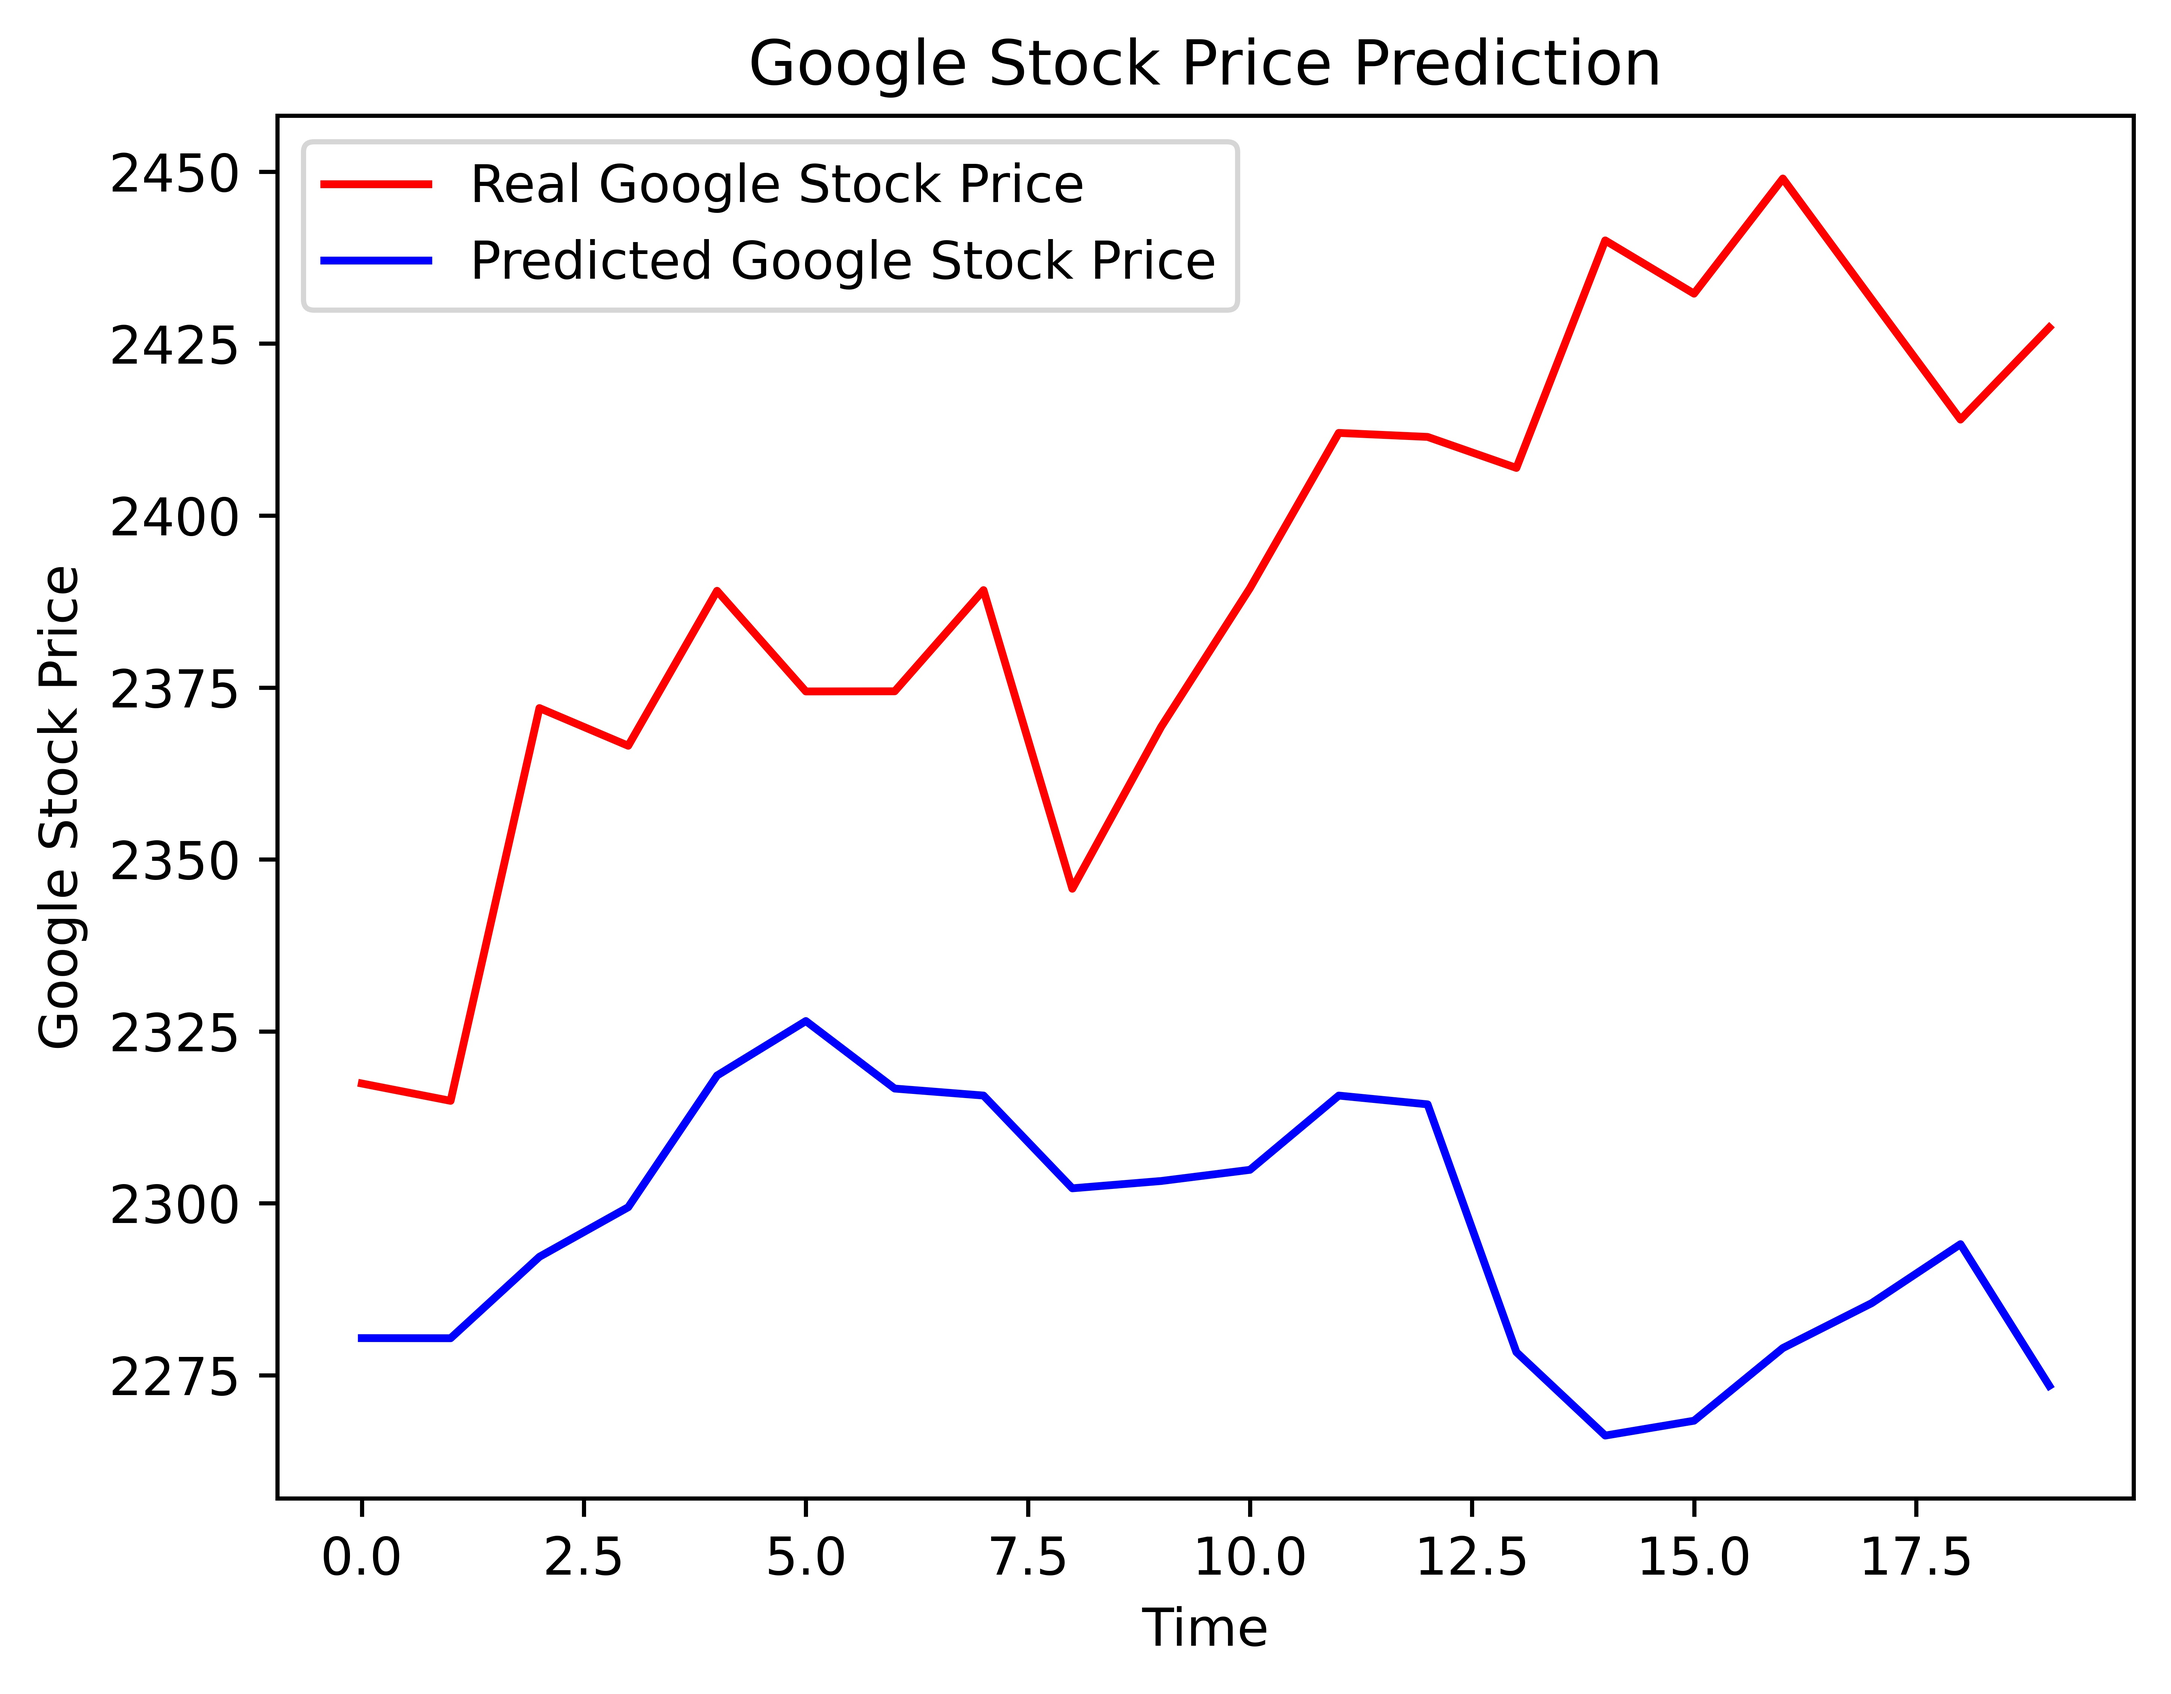
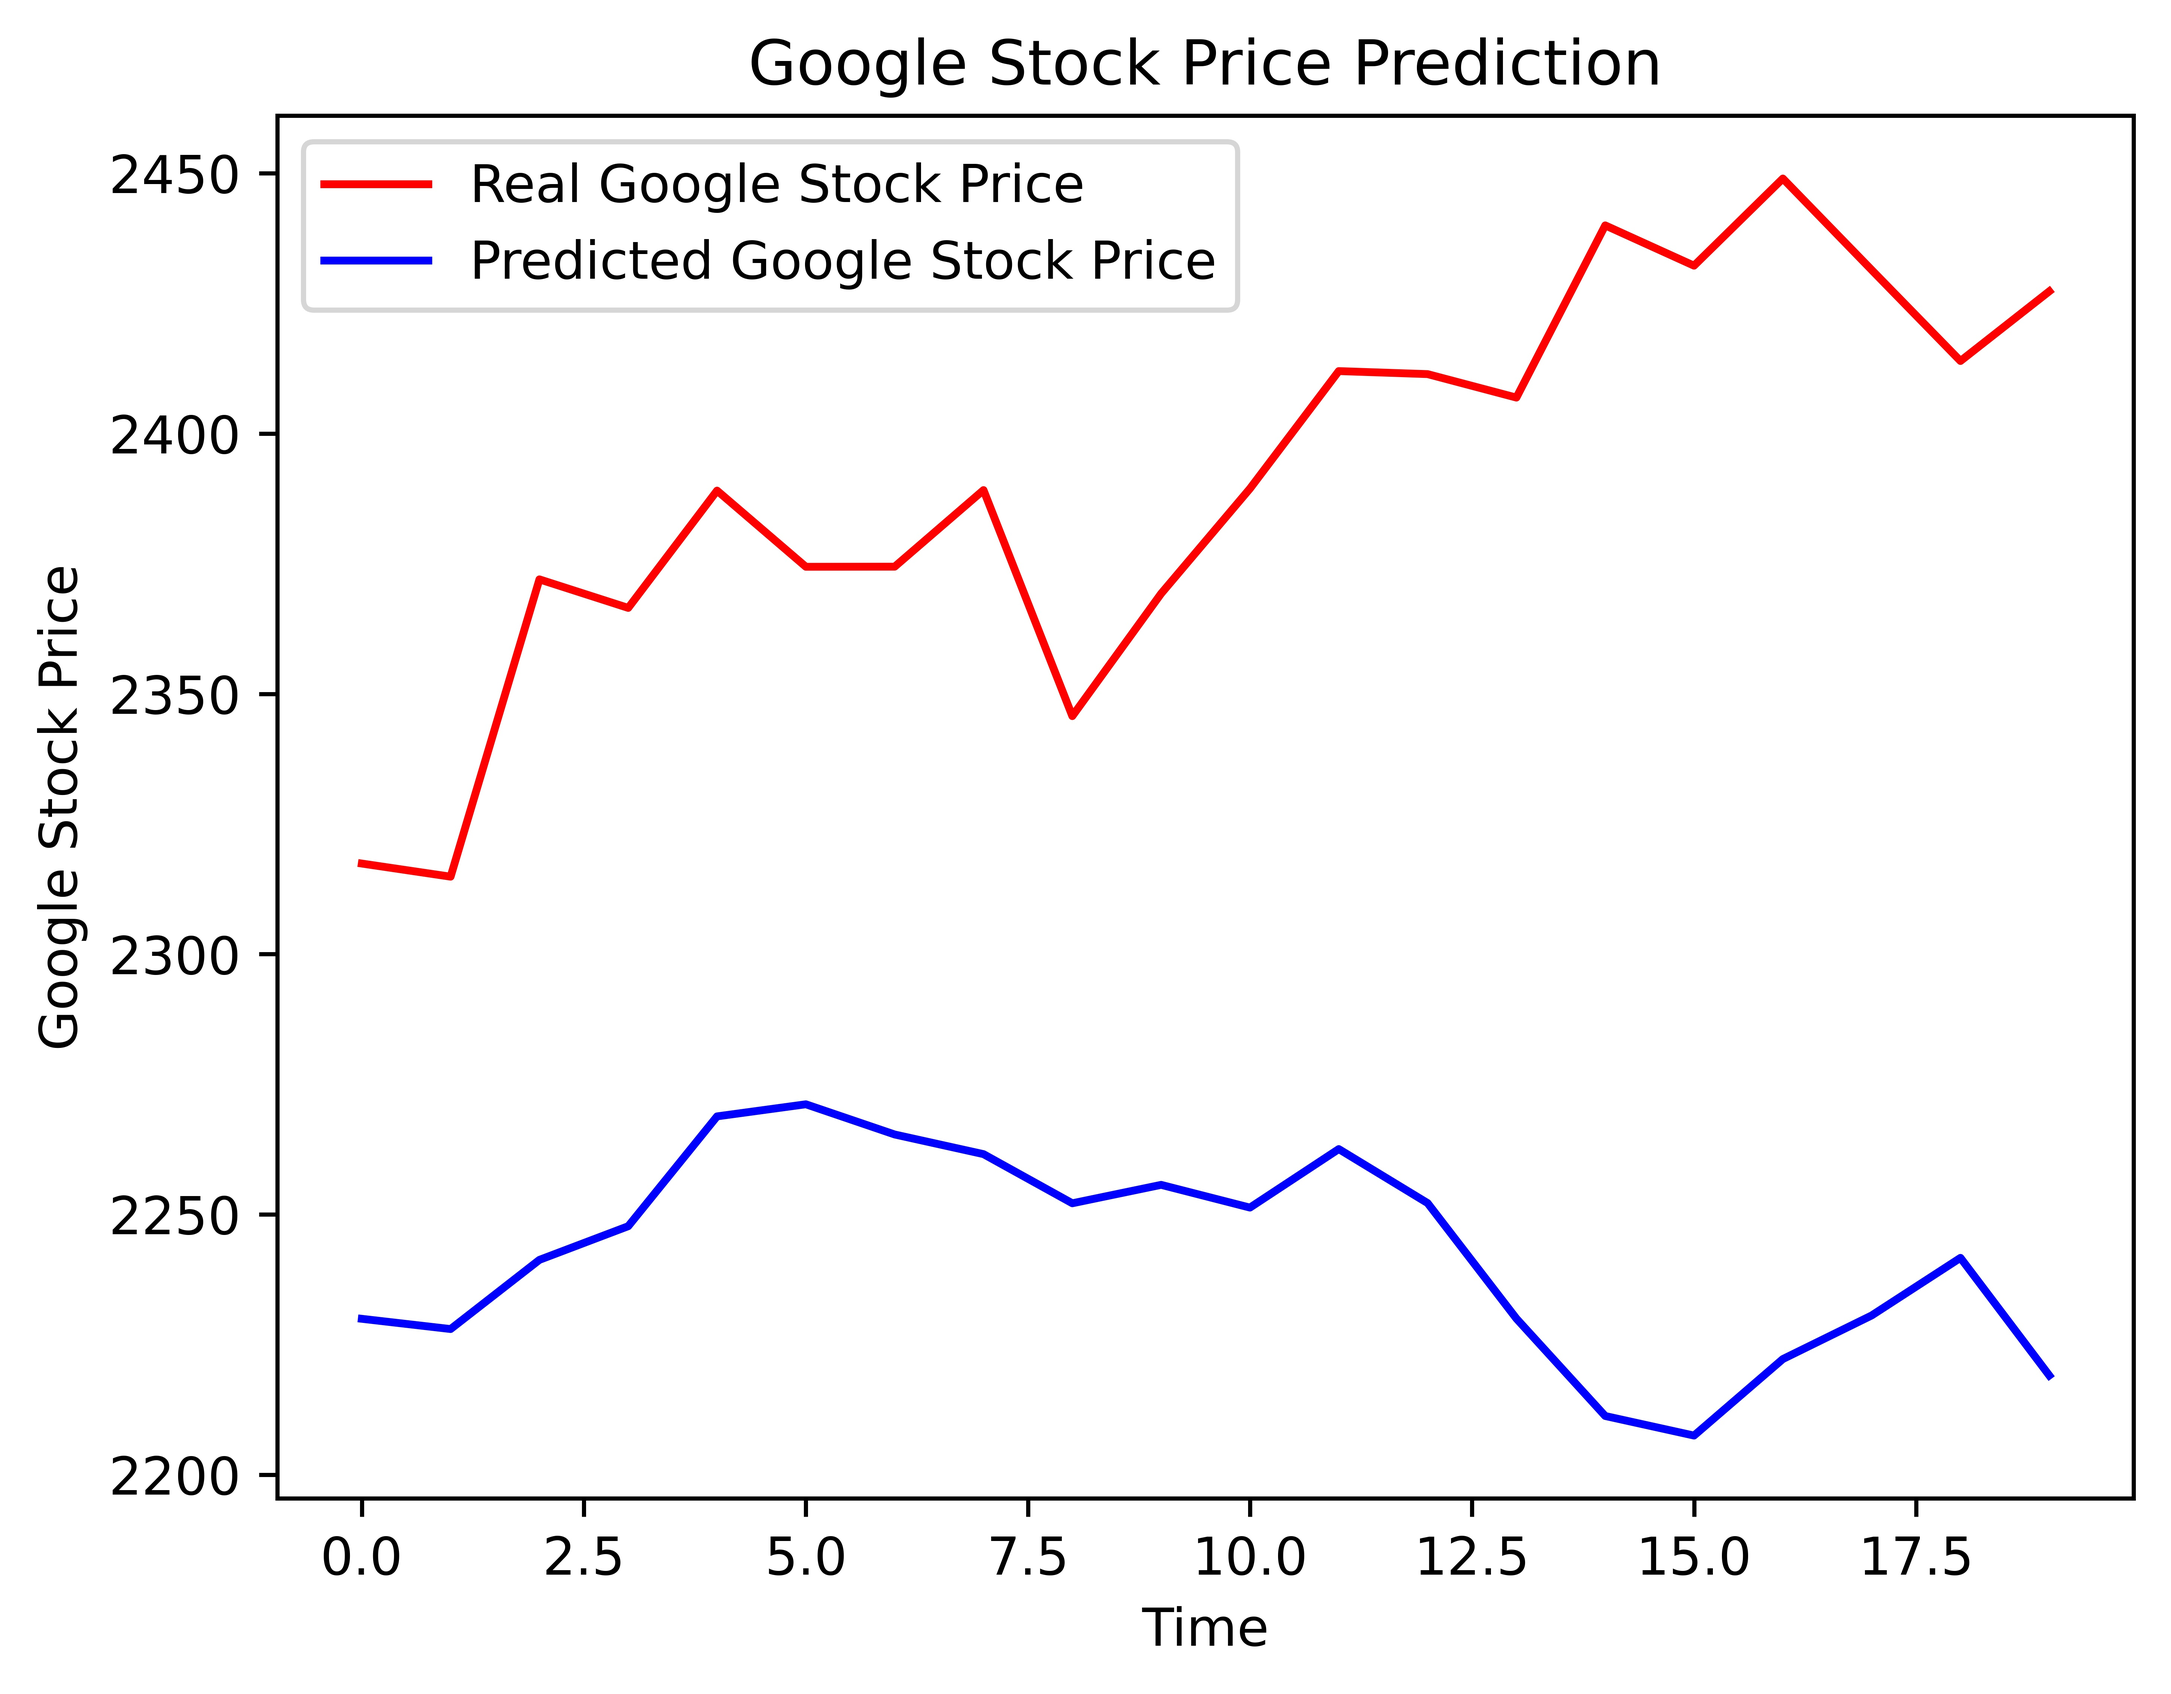
Parameter(time stamp - 120, added another layer) tuning and loss graph added

diff --git a/rnn_new.py b/rnn_new.py
@@ -15,8 +15,8 @@ training_set_scaled = sc.fit_transform(training_set)
 #Creating a data structure with 60 timesteps and 1 output
 X_train = []
 y_train = []
-for i in range(60,4218):
-    X_train.append(training_set_scaled[i-60:i, 0])
+for i in range(120,4218):
+    X_train.append(training_set_scaled[i-120:i, 0])
     y_train.append(training_set_scaled[i, 0])
 
 X_train, y_train = np.array(X_train), np.array(y_train)
@@ -38,7 +38,7 @@ regressor = Sequential()
 regressor.add(LSTM(units = 100, return_sequences= True, input_shape = (X_train.shape[1],1)))
 regressor.add(Dropout(0.2))
 
-#Adding 3 more layers
+#Adding more layers
 #2
 regressor.add(LSTM(units = 100, return_sequences= True))
 regressor.add(Dropout(0.2))
@@ -49,6 +49,10 @@ regressor.add(Dropout(0.2))
 regressor.add(LSTM(units = 100, return_sequences= True))
 regressor.add(Dropout(0.2))
 #5
+regressor.add(LSTM(units = 100, return_sequences= True))
+regressor.add(Dropout(0.2))
+
+#6
 regressor.add(LSTM(units = 100, return_sequences= True))
 regressor.add(Dropout(0.2))
 
@@ -63,8 +67,17 @@ regressor.add(Dense(units = 1))
 regressor.compile(optimizer='adam', loss='mean_squared_error')
 
 #Fitting the RNN model to the training set
-regressor.fit(X_train, y_train, epochs=500, batch_size=32)
+history = regressor.fit(X_train, y_train, validation_split=0.2,epochs=500, batch_size=64)
 
+print(history.history.keys())
+
+plt.plot(history.history['loss'], color='red', label='Loss')
+plt.title('Training Loss')
+plt.xlabel('Time')
+plt.ylabel('Loss')
+plt.legend()
+plt.savefig('Loss.jpg',bbox_inches='tight',dpi=1000)
+plt.show()
 
 #Reading test dataset
 #dataset_test = pd.read_csv('Google_Stock_Price_Test.csv')
@@ -72,12 +85,12 @@ real_stock_price = dataset.iloc[-20:,1:2].values
 
 #Predicting stock price
 #dataset_local = pd.concat((dataset_train['Open'], dataset_test['Open']), axis = 0)
-inputs = dataset.iloc[len(training_set)-80:,1:2].values
+inputs = dataset.iloc[len(training_set)-140:,1:2].values
 inputs = inputs.reshape(-1,1)
 inputs_scaled = sc.transform(inputs)
 X_test = []
-for i in range(60,80):
-    X_test.append(inputs_scaled[i-60:i, 0])
+for i in range(120,140):
+    X_test.append(inputs_scaled[i-120:i, 0])
 X_test = np.array(X_test)
 X_test = np.reshape(X_test,(X_test.shape[0], X_test.shape[1], 1))
 predicted_stock_price = regressor.predict(X_test)
